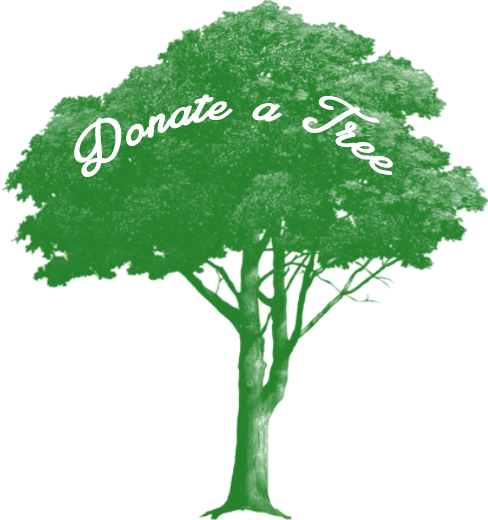
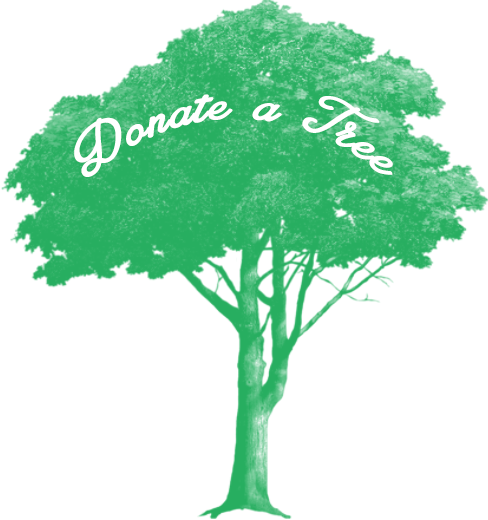
Changed Tree button, updated footer and added social media buttons *ALL ARE WORKING*

diff --git a/index.html b/index.html
@@ -589,7 +589,12 @@
 	
     <!--Footer-->
 	<footer class="bottomFooter">
-		<h2>Copyright Not Far From The Tree</h2>
+		<ul>
+			<li><a href="https://www.facebook.com/NFFTT?ref=stream&hc_location=stream" target="_blank"><img src="images/facebook.png"></a></li>
+			<li><a href="https://twitter.com/NFFTT" target="_blank"><img src="images/twitter.png"></a></li>
+			<li><a href="http://www.flickr.com/photos/notfarfromthetree/" target="_blank"><img src="images/flickr.png"></a></li>
+		</ul>
+		<h2>Copyright Not Far From the Tree 2013 ©</h2>
 	</footer>
 	
 </body>

diff --git a/styles/main.css b/styles/main.css
@@ -62,7 +62,7 @@ nav#mainNav ul li {
   padding-left: 10px;
 }
 nav#mainNav ul li a {
-  color: #00a652;
+  color: #2ecc71;
 }
 #paypalBtn {
   margin: 15px 0 20px 950px;
@@ -385,6 +385,17 @@ footer.bottomFooter {
   color: #00a652;
   text-align: center;
   padding: 10px 0 10px 0;
+}
+footer.bottomFooter ul li {
+  display: inline;
+  padding: 0 2px 0 2px;
+}
+footer.bottomFooter ul li a:hover {
+  opacity: 0.4;
+}
+footer.bottomFooter h2 {
+  font-family: 'Young';
+  font-size: 14px;
 }
 /*********MEDIA QUERIES*********/
 /********HOME PAGE********/

diff --git a/styles/less/main.less b/styles/less/main.less
@@ -29,7 +29,7 @@ nav#mainNav {
 	    margin: 20px 0 0 50px;
 	    padding-left: 10px;
 	    a {
-	        color: @green; 
+	        color: @lightgreen; 
 	    }
 	}
 }
@@ -367,6 +367,17 @@ footer.bottomFooter {
 	color: @green;
 	text-align: center;
 	padding: 10px 0 10px 0;
+	ul li {
+	display: inline;
+	padding: 0 2px 0 2px;
+	}
+	ul li a:hover {
+	opacity:0.4;
+	}
+	h2 {
+	font-family: 'Young';
+	font-size: 14px;
+	}
 }
 
 /*********MEDIA QUERIES*********/

diff --git a/styles/less/includes/brand.less b/styles/less/includes/brand.less
@@ -18,3 +18,4 @@
 @fontteal: #447f75;
 @bgteal: #5aa89b;
 @brown: #a6822d;
+@lightgreen: #2ecc71;
